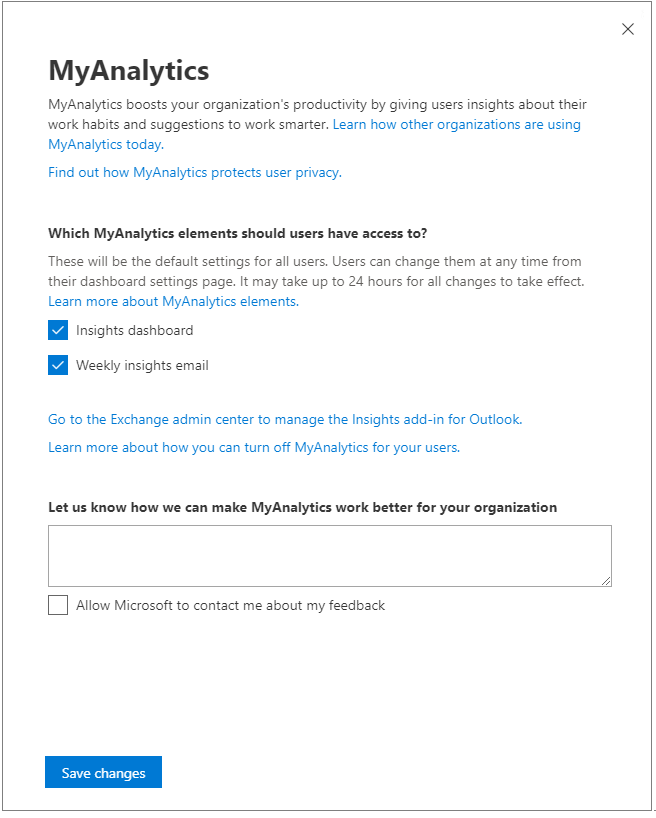
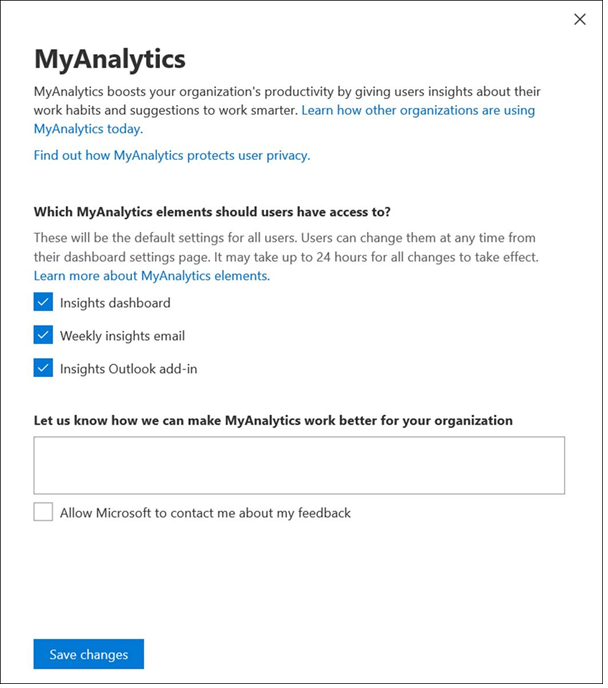
all changes for Himani

Changed region(s): [[0.0, 0.0, 1.0, 1.0], [0.9062, 0.641, 0.9375, 0.7326]]

diff --git a/WorkplaceAnalytics/MyAnalytics/Setup/configure-myanalytics.md b/WorkplaceAnalytics/MyAnalytics/Setup/configure-myanalytics.md
@@ -60,8 +60,12 @@ You can configure access to MyAnalytics elements for all users in your organizat
 
 6. Select **Weekly insights email** to keep all MyAnalytics users in your organization opted _in_ for access to the weekly [email digest](../../myanalytics/use/email-digest-2.md) (and the MyAnalytics [welcome email](../../myanalytics/use/mya-welcome-email.md)). Deselect **Weekly insights email** to opt users _out_ of the weekly email digest (and the MyAnalytics welcome email).  
 
+7. Select **Insights Outlook add-in** to keep all MyAnalytics users in your organization opted in for access to the Insights Outlook add-in. Deselect it to opt users out of access to the Insights Outlook add-in. 
+
 > [!Note]
 > After a new tenant is established, it might take up to 48 hours for this functionality to become available. This experience will be available in Office 365 GCC by the end of 2019.
+
+<!-- REMOVING THIS SECTION PER HIMANI 12 NOV. 2019, BUT KEEPING IT AROUND (ALSO PER HIMANI) IN CASE WE NEED TO BRING IT BACK:
 
 ### To disable the add-in for a tenant
 
@@ -75,6 +79,8 @@ You can disable the Insights Outlook add-in for all licensed users in your organ
 3. In the dashboard, select **add-ins**.
 4. In the list of add-ins, select **Insights**, and then select the **Edit** (pencil) icon.
 5. In the **Edit add-in settings** dialog box, clear the **Make this add-in available to users in your organization** checkbox to disable the add-in, and then select **Save**.
+
+-->
 
 ## Configure access at the user level
 

diff --git a/WorkplaceAnalytics/MyAnalytics/Use/add-in.md b/WorkplaceAnalytics/MyAnalytics/Use/add-in.md
@@ -255,9 +255,30 @@ IT HAS NOT YET SHIPPED EXTERNALLY. HE WILL LET US KNOW WHEN TO PUBLISH.
 
 -->
 
-## Opt out of the Insights add-in
+## Opt out of the Insights Outlook add-in
 
+<!-- REMOVED 12 NOV 2019 IN FAVOR OF WHAT FOLLOWS
 The way to opt out of the Insights add-in is to opt out of MyAnalytics. For instructions, see [Opt out of MyAnalytics](opt-out-of-mya.md).
+-->
+
+1. Open your [dashboard](https://myanalytics.microsoft.com).
+2. Select the **Settings** (gear) icon in the top right.
+
+    ![MyAnalytics settings](../../Images/mya/use/mya-gear-settings.png)
+
+3. Under MyAnalytics, select **Settings**.
+4. For **Insights Outlook add-in**, set the control to **Off**.
+
+    ![Slider in off position](../../Images/mya/use/add-in-opt-in-out.png)
+  
+5. Select **Save** to save your changes.
+
+> [!NOTE]
+> It might take up to 24 hours for your saved changes to take effect.
+
+### If I am opted out, can I opt back in?
+
+Yes; if you opt yourself out or if an admin opts you out, you can opt back in any time to regain access to the Insights Outlook add-in.
 
 <!-- CONSIDER REMOVING THE FOLLOWING -->
 
